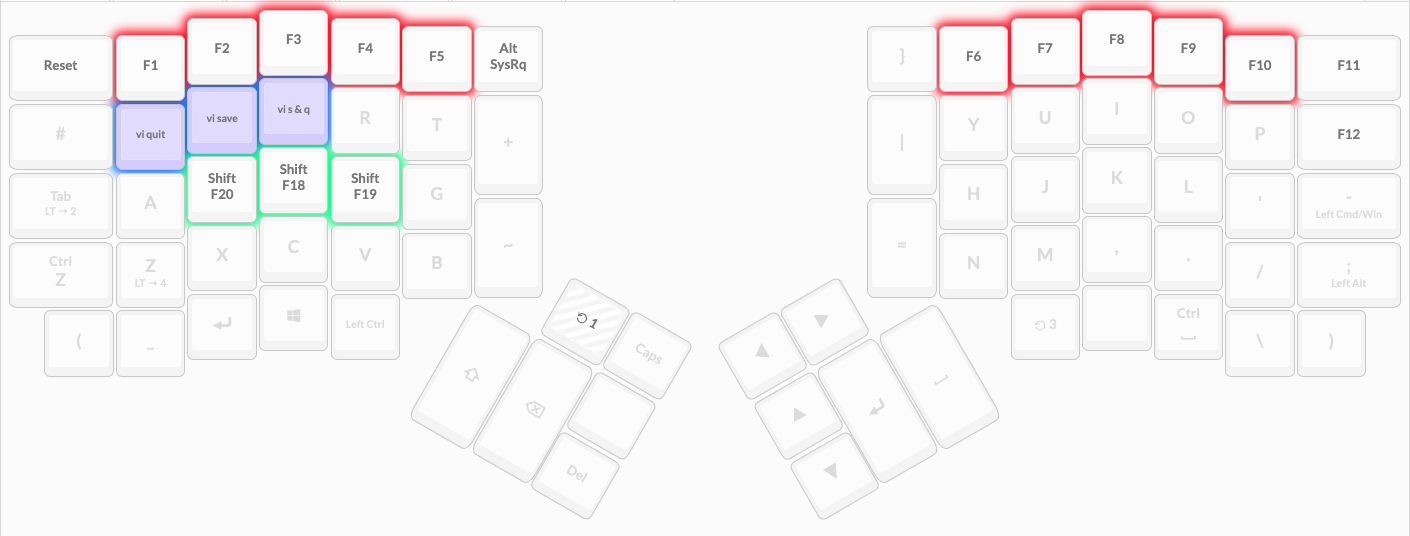
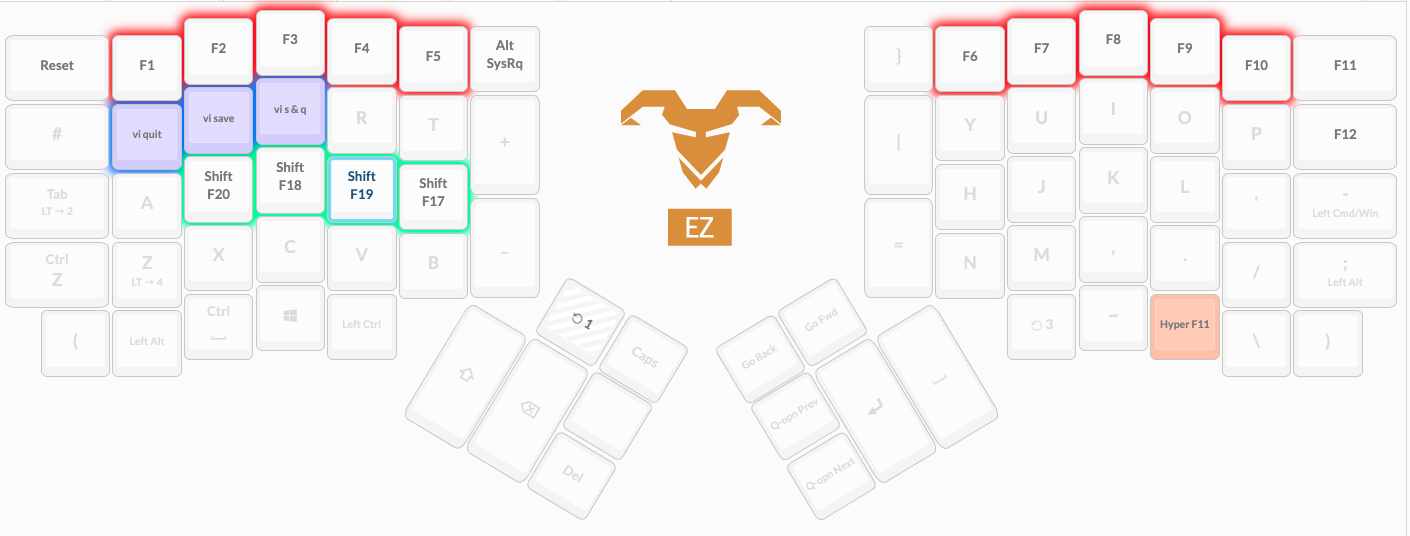
Add keys for doxaid

diff --git a/keyboards/ergodox_ez/keymaps/stoneman/keymap.c b/keyboards/ergodox_ez/keymaps/stoneman/keymap.c
@@ -11,6 +11,12 @@
 #define KC_ALT_RIGHT LALT(LCTL(KC_F2))
 #define KC_CTL_LEFT LALT(LCTL(KC_F3))
 #define KC_CTL_RIGHT LALT(LCTL(KC_F4))
+#define KC_HYPER_F10 LALT(LCTL(LGUI(LSFT(KC_F10))))
+#define KC_HYPER_F11 LALT(LCTL(LGUI(LSFT(KC_F11))))
+#define KC_HYPER_F12 LALT(LCTL(LGUI(LSFT(KC_F12))))
+#define KC_HYPER_F13 LALT(LCTL(LGUI(LSFT(KC_F13))))
+#define KC_HYPER_F14 LALT(LCTL(LGUI(LSFT(KC_F14))))
+#define KC_HYPER_F15 LALT(LCTL(LGUI(LSFT(KC_F15))))
 
 enum custom_keycodes {
     ALT_TAB = SAFE_RANGE,
@@ -51,7 +57,7 @@ const uint16_t PROGMEM keymaps[][MATRIX_ROWS][MATRIX_COLS] = {
     KC_LALT_HASH,   KC_Q,           KC_W,           KC_E,           KC_R,           KC_T,           KC_PLUS,                                        KC_NONUS_PIPE,  KC_Y,           KC_U,           KC_I,           KC_O,           KC_P,           KC_GRAVE,
     LT(2,KC_TAB),   KC_A,           KC_S,           KC_D,           KC_F,           KC_G,                                                                           KC_H,           KC_J,           KC_K,           KC_L,           KC_QUOTE,       LGUI_T(KC_MINUS),
     LCTL(KC_Z),     LT(4,KC_Z),     KC_X,           KC_C,           KC_V,           KC_B,           KC_UNDS,                                        KC_EQUAL,       KC_N,           KC_M,           KC_COMMA,       KC_DOT,         KC_SLASH,       LALT_T(KC_SCOLON),
-    KC_LPRN,        KC_LALT,        KC_ENTER,       KC_LGUI,        KC_LCTRL,                                                                                                       MO(3),          KC_NONUS_TILD,  LCTL(KC_SPACE), KC_NONUS_BSLASH,KC_RPRN,
+    KC_LPRN,        KC_LALT,        LCTL(KC_SPACE), KC_LGUI,        KC_LCTRL,                                                                                                       MO(3),          KC_NONUS_TILD,  KC_HYPER_F10,   KC_NONUS_BSLASH,KC_RPRN,
                                                                                                     MO(1),          KC_CAPSLOCK,    LALT(LGUI(LSFT(KC_LEFT))),LALT(LGUI(LSFT(KC_RIGHT))),
                                                                                                                     KC_TRANSPARENT, KC_F16,
                                                                                     KC_LSHIFT,      KC_BSPACE,      KC_DELETE,      KC_F17,         KC_ENTER,       KC_SPACE
@@ -61,7 +67,7 @@ const uint16_t PROGMEM keymaps[][MATRIX_ROWS][MATRIX_COLS] = {
     KC_TRANSPARENT, VIM_QUIT,       VIM_SAVE,       VIM_SAVE_QUIT,  KC_TRANSPARENT, KC_TRANSPARENT, KC_TRANSPARENT,                                 KC_TRANSPARENT, KC_TRANSPARENT, KC_TRANSPARENT, KC_TRANSPARENT, KC_TRANSPARENT, KC_TRANSPARENT, KC_F12,
     KC_TRANSPARENT, KC_TRANSPARENT, LSFT(KC_F20),   KC_F18,         KC_F19,         LSFT(KC_F17),                                                                   KC_TRANSPARENT, KC_TRANSPARENT, KC_TRANSPARENT, KC_TRANSPARENT, KC_TRANSPARENT, KC_TRANSPARENT,
     KC_TRANSPARENT, KC_TRANSPARENT, KC_TRANSPARENT, KC_TRANSPARENT, KC_TRANSPARENT, KC_TRANSPARENT, KC_TRANSPARENT,                                 KC_TRANSPARENT, KC_TRANSPARENT, KC_TRANSPARENT, KC_TRANSPARENT, KC_TRANSPARENT, KC_TRANSPARENT, KC_TRANSPARENT,
-    KC_TRANSPARENT, KC_TRANSPARENT, KC_TRANSPARENT, KC_TRANSPARENT, KC_TRANSPARENT,                                                                                                 KC_TRANSPARENT, KC_TRANSPARENT, KC_TRANSPARENT, KC_TRANSPARENT, KC_TRANSPARENT,
+    KC_TRANSPARENT, KC_TRANSPARENT, KC_TRANSPARENT, KC_TRANSPARENT, KC_TRANSPARENT,                                                                                                 KC_TRANSPARENT, KC_TRANSPARENT, KC_HYPER_F11,   KC_TRANSPARENT, KC_TRANSPARENT,
                                                                                                     KC_TRANSPARENT, KC_TRANSPARENT, KC_TRANSPARENT, KC_TRANSPARENT,
                                                                                                                     KC_TRANSPARENT, KC_TRANSPARENT,
                                                                                     KC_TRANSPARENT, KC_TRANSPARENT, KC_TRANSPARENT, KC_TRANSPARENT, KC_TRANSPARENT, KC_TRANSPARENT
@@ -71,7 +77,7 @@ const uint16_t PROGMEM keymaps[][MATRIX_ROWS][MATRIX_COLS] = {
     KC_TRANSPARENT, KC_TRANSPARENT, EMOJI_HEARTS,   EMOJI_TADA,     EMOJI_WAVE,     EMOJI_COOL,     EMOJI_FINGERS_X,                                KC_TRANSPARENT, KC_TRANSPARENT, KC_TRANSPARENT, KC_TRANSPARENT, KC_TRANSPARENT, KC_TRANSPARENT, KC_TRANSPARENT,
     KC_TRANSPARENT, KC_TRANSPARENT, EMOJI_ROFL,     EMOJI_JOY,      EMOJI_LAUGH,    EMOJI_WINK,                                                                     KC_TRANSPARENT, KC_TRANSPARENT, KC_TRANSPARENT, KC_TRANSPARENT, KC_TRANSPARENT, KC_EMOJI,
     KC_TRANSPARENT, KC_TRANSPARENT, EMOJI_SHOCK,    EMOJI_ANGRY,    EMOJI_SAD,      EMOJI_WINKTNG,  EMOJI_EYES,                                     KC_TRANSPARENT, KC_TRANSPARENT, KC_TRANSPARENT, KC_TRANSPARENT, KC_TRANSPARENT, KC_TRANSPARENT, KC_TRANSPARENT,
-    KC_TRANSPARENT, KC_TRANSPARENT, KC_TRANSPARENT, EMOJI_MINDBLO,  EMOJI_SEENOEVIL,                                                                                                KC_TRANSPARENT, KC_TRANSPARENT, KC_TRANSPARENT, KC_TRANSPARENT, KC_TRANSPARENT,
+    KC_TRANSPARENT, KC_TRANSPARENT, KC_TRANSPARENT, EMOJI_MINDBLO,  EMOJI_SEENOEVIL,                                                                                                KC_TRANSPARENT, KC_TRANSPARENT, KC_HYPER_F12,   KC_TRANSPARENT, KC_TRANSPARENT,
                                                                                                     KC_TRANSPARENT, KC_TRANSPARENT, KC_TRANSPARENT, KC_TRANSPARENT,
                                                                                                                     KC_TRANSPARENT, KC_TRANSPARENT,
                                                                                     EMOJI_THUMBS_UP,EMOJI_SMILE,    EMOJI_GRIN,     KC_TRANSPARENT, LALT(KC_ENTER), KC_TRANSPARENT
@@ -81,7 +87,7 @@ const uint16_t PROGMEM keymaps[][MATRIX_ROWS][MATRIX_COLS] = {
     KC_TRANSPARENT, KC_TRANSPARENT, KC_TRANSPARENT, KC_TRANSPARENT, KC_TRANSPARENT, KC_TRANSPARENT, KC_TRANSPARENT,                                 KC_TRANSPARENT, KC_TRANSPARENT, KC_4,           KC_5,           KC_6,           KC_PLUS,        KC_TRANSPARENT,
     KC_TRANSPARENT, KC_TRANSPARENT, KC_TRANSPARENT, KC_TRANSPARENT, KC_TRANSPARENT, KC_TRANSPARENT,                                                                 KC_TRANSPARENT, KC_1,           KC_2,           KC_3,           KC_ASTR,        KC_TRANSPARENT,
     KC_TRANSPARENT, KC_TRANSPARENT, KC_TRANSPARENT, KC_TRANSPARENT, KC_TRANSPARENT, KC_TRANSPARENT, KC_TRANSPARENT,                                 KC_TRANSPARENT, KC_TRANSPARENT, KC_0,           KC_TRANSPARENT, KC_DOT,         KC_SLASH,       KC_TRANSPARENT,
-    KC_TRANSPARENT, KC_TRANSPARENT, KC_TRANSPARENT, KC_TRANSPARENT, KC_TRANSPARENT,                                                                                                 KC_TRANSPARENT, KC_TRANSPARENT, KC_TRANSPARENT, KC_TRANSPARENT, KC_TRANSPARENT,
+    KC_TRANSPARENT, KC_TRANSPARENT, KC_TRANSPARENT, KC_TRANSPARENT, KC_TRANSPARENT,                                                                                                 KC_TRANSPARENT, KC_TRANSPARENT, KC_HYPER_F13,   KC_TRANSPARENT, KC_TRANSPARENT,
                                                                                                     KC_TRANSPARENT, KC_TRANSPARENT, KC_AUDIO_MUTE,  KC_TRANSPARENT,
                                                                                                                     KC_TRANSPARENT, KC_AUDIO_VOL_UP,
                                                                                     KC_TRANSPARENT, KC_TRANSPARENT, KC_TRANSPARENT, KC_AUDIO_VOL_DOWN,KC_TRANSPARENT, KC_TRANSPARENT
@@ -91,7 +97,7 @@ const uint16_t PROGMEM keymaps[][MATRIX_ROWS][MATRIX_COLS] = {
     KC_TRANSPARENT, KC_TRANSPARENT, KC_TRANSPARENT, KC_TRANSPARENT, KC_TRANSPARENT, KC_TRANSPARENT, KC_HOME,                                        KC_PGUP,        KC_TRANSPARENT, KC_TRANSPARENT, KC_UP,          KC_TRANSPARENT, KC_TRANSPARENT, KC_TRANSPARENT,
     KC_TRANSPARENT, KC_TRANSPARENT, KC_TRANSPARENT, ALT_SHIFT_GRV,  ALT_GRV,        KC_TRANSPARENT,                                                                 LGUI(KC_LEFT),  KC_LEFT,        KC_DOWN,        KC_RIGHT,       LGUI(KC_RIGHT), KC_TRANSPARENT,
     KC_TRANSPARENT, KC_TRANSPARENT, MACRO_CHZ,      ALT_SHIFT_TAB,  ALT_TAB,        KC_TRANSPARENT, KC_END,                                         KC_PGDOWN,      KC_TRANSPARENT, KC_TRANSPARENT, KC_TRANSPARENT, KC_TRANSPARENT, KC_TRANSPARENT, KC_TRANSPARENT,
-    KC_TRANSPARENT, KC_TRANSPARENT, KC_TRANSPARENT, KC_TRANSPARENT, KC_TRANSPARENT,                                                                                                 KC_LALT,        KC_TRANSPARENT, KC_TRANSPARENT, KC_TRANSPARENT, KC_TRANSPARENT,
+    KC_TRANSPARENT, KC_TRANSPARENT, KC_TRANSPARENT, KC_TRANSPARENT, KC_TRANSPARENT,                                                                                                 KC_LALT,        KC_TRANSPARENT, KC_HYPER_F14,   KC_TRANSPARENT, KC_TRANSPARENT,
                                                                                                     KC_TRANSPARENT, KC_TRANSPARENT, KC_TRANSPARENT, KC_TRANSPARENT,
                                                                                                                     KC_TRANSPARENT, KC_TRANSPARENT,
                                                                                     KC_TRANSPARENT, KC_TRANSPARENT, KC_TRANSPARENT, KC_TRANSPARENT, KC_TRANSPARENT, KC_LCTL
@@ -101,7 +107,7 @@ const uint16_t PROGMEM keymaps[][MATRIX_ROWS][MATRIX_COLS] = {
     KC_F8,          KC_TRANSPARENT, KC_TRANSPARENT, KC_TRANSPARENT, KC_TRANSPARENT, KC_TRANSPARENT, KC_F10,                                         KC_TRANSPARENT, KC_TRANSPARENT, KC_TRANSPARENT, KC_TRANSPARENT, KC_TRANSPARENT, KC_TRANSPARENT, KC_TRANSPARENT,
     KC_TAB,         KC_TRANSPARENT, KC_TRANSPARENT, KC_TRANSPARENT, KC_TRANSPARENT, KC_TRANSPARENT,                                                                 KC_TRANSPARENT, KC_TRANSPARENT, KC_TRANSPARENT, KC_TRANSPARENT, KC_TRANSPARENT, KC_TRANSPARENT,
     KC_F11,         KC_Z,           KC_TRANSPARENT, KC_TRANSPARENT, KC_TRANSPARENT, KC_TRANSPARENT, KC_F5,                                          KC_TRANSPARENT, KC_TRANSPARENT, KC_TRANSPARENT, KC_TRANSPARENT, KC_TRANSPARENT, KC_TRANSPARENT, KC_TRANSPARENT,
-    KC_F1,          KC_F2,          KC_F3,          KC_F4,          KC_LALT,                                                                                                        KC_TRANSPARENT, KC_TRANSPARENT, KC_TRANSPARENT, KC_TRANSPARENT, KC_TRANSPARENT,
+    KC_F1,          KC_F2,          KC_F3,          KC_F4,          KC_LALT,                                                                                                        KC_TRANSPARENT, KC_TRANSPARENT, KC_HYPER_F15,   KC_TRANSPARENT, KC_TRANSPARENT,
                                                                                                     KC_DELETE,      KC_F9,          KC_AUDIO_MUTE,  KC_TRANSPARENT,
                                                                                                                     KC_LCTRL,       KC_AUDIO_VOL_UP,
                                                                                     KC_F6,          KC_BSPACE,      KC_LSHIFT,      KC_AUDIO_VOL_DOWN,KC_TRANSPARENT, KC_TRANSPARENT
@@ -123,7 +129,7 @@ const uint8_t PROGMEM ledmap[][DRIVER_LED_TOTAL][3] = {
 
     [2] = { {0,0,0}, {0,0,0}, {0,0,0}, {0,0,0}, {0,0,0}, {0,0,0}, {0,0,0}, {0,0,0}, {0,0,0}, {0,0,0}, {0,0,0}, {0,0,0}, {0,0,0}, {0,0,0}, {0,0,0}, {0,0,0}, {0,0,0}, {0,0,0}, {0,0,0}, {0,0,0}, {0,0,0}, {0,0,0}, {0,0,0}, {0,0,0}, {0,0,0}, {105,255,255}, {105,255,255}, {0,0,0}, {0,0,0}, {105,255,255}, {105,255,255}, {105,255,255}, {105,255,255}, {0,0,0}, {105,255,255}, {105,255,255}, {105,255,255}, {105,255,255}, {0,0,0}, {105,255,255}, {105,255,255}, {105,255,255}, {105,255,255}, {0,0,0}, {105,255,255}, {105,255,255}, {0,0,0}, {0,0,0} },
 
-    [3] = { {0,0,255}, {0,0,255}, {0,0,255}, {0,0,255}, {0,0,255}, {0,0,0}, {0,0,255}, {0,0,255}, {0,0,255}, {154,255,255}, {0,0,0}, {0,0,255}, {0,0,255}, {0,0,255}, {154,255,255}, {0,0,0}, {0,0,255}, {0,0,0}, {0,255,255}, {154,255,255}, {0,0,0}, {0,0,0}, {0,0,0}, {0,0,0}, {0,0,255}, {0,0,255}, {0,0,255}, {0,0,255}, {0,0,255}, {0,0,0}, {0,0,0}, {154,255,255}, {0,0,0}, {0,0,0}, {0,0,0}, {154,255,255}, {154,255,255}, {154,255,255}, {0,0,0}, {0,0,0}, {0,0,0}, {0,0,0}, {0,0,0}, {0,0,0}, {0,0,0}, {0,0,0}, {0,0,0}, {0,0,0} },
+    [3] = { {0,0,255}, {0,0,255}, {0,0,255}, {0,0,255}, {0,0,255}, {0,0,0}, {0,0,255}, {0,0,255}, {0,0,255}, {154,255,255}, {0,0,0}, {0,0,255}, {0,0,255}, {0,0,255}, {154,255,255}, {0,0,0}, {0,0,255}, {0,0,0}, {0,255,255}, {154,255,255}, {0,0,0}, {0,0,0}, {0,0,0}, {0,0,0}, {0,0,255}, {0,0,255}, {0,0,255}, {0,0,255}, {0,0,255}, {0,0,0}, {0,0,0}, {0,0,0}, {0,0,0}, {0,0,0}, {0,0,0}, {0,0,0}, {0,0,0}, {0,0,0}, {0,0,0}, {0,0,0}, {0,0,0}, {0,0,0}, {0,0,0}, {0,0,0}, {0,0,0}, {0,0,0}, {0,0,0}, {0,0,0} },
 
     [4] = { {0,0,0}, {0,0,0}, {0,0,0}, {0,0,0}, {0,0,0}, {0,0,0}, {0,0,0}, {154,255,255}, {0,0,0}, {0,0,0}, {0,0,255}, {154,255,255}, {154,255,255}, {154,255,255}, {0,0,255}, {0,0,0}, {0,0,0}, {0,0,0}, {0,0,0}, {0,0,0}, {0,0,0}, {0,0,0}, {0,0,0}, {0,0,0}, {0,0,0}, {0,0,0}, {0,0,0}, {0,0,0}, {0,0,0}, {0,0,0}, {0,0,0}, {0,0,0}, {0,0,0}, {0,0,0}, {0,0,0}, {0,255,255}, {0,255,255}, {0,0,0}, {0,0,0}, {0,0,0}, {0,255,255}, {0,255,255}, {0,0,0}, {0,0,0}, {0,0,0}, {0,0,0}, {0,0,0}, {0,0,0} },
 
